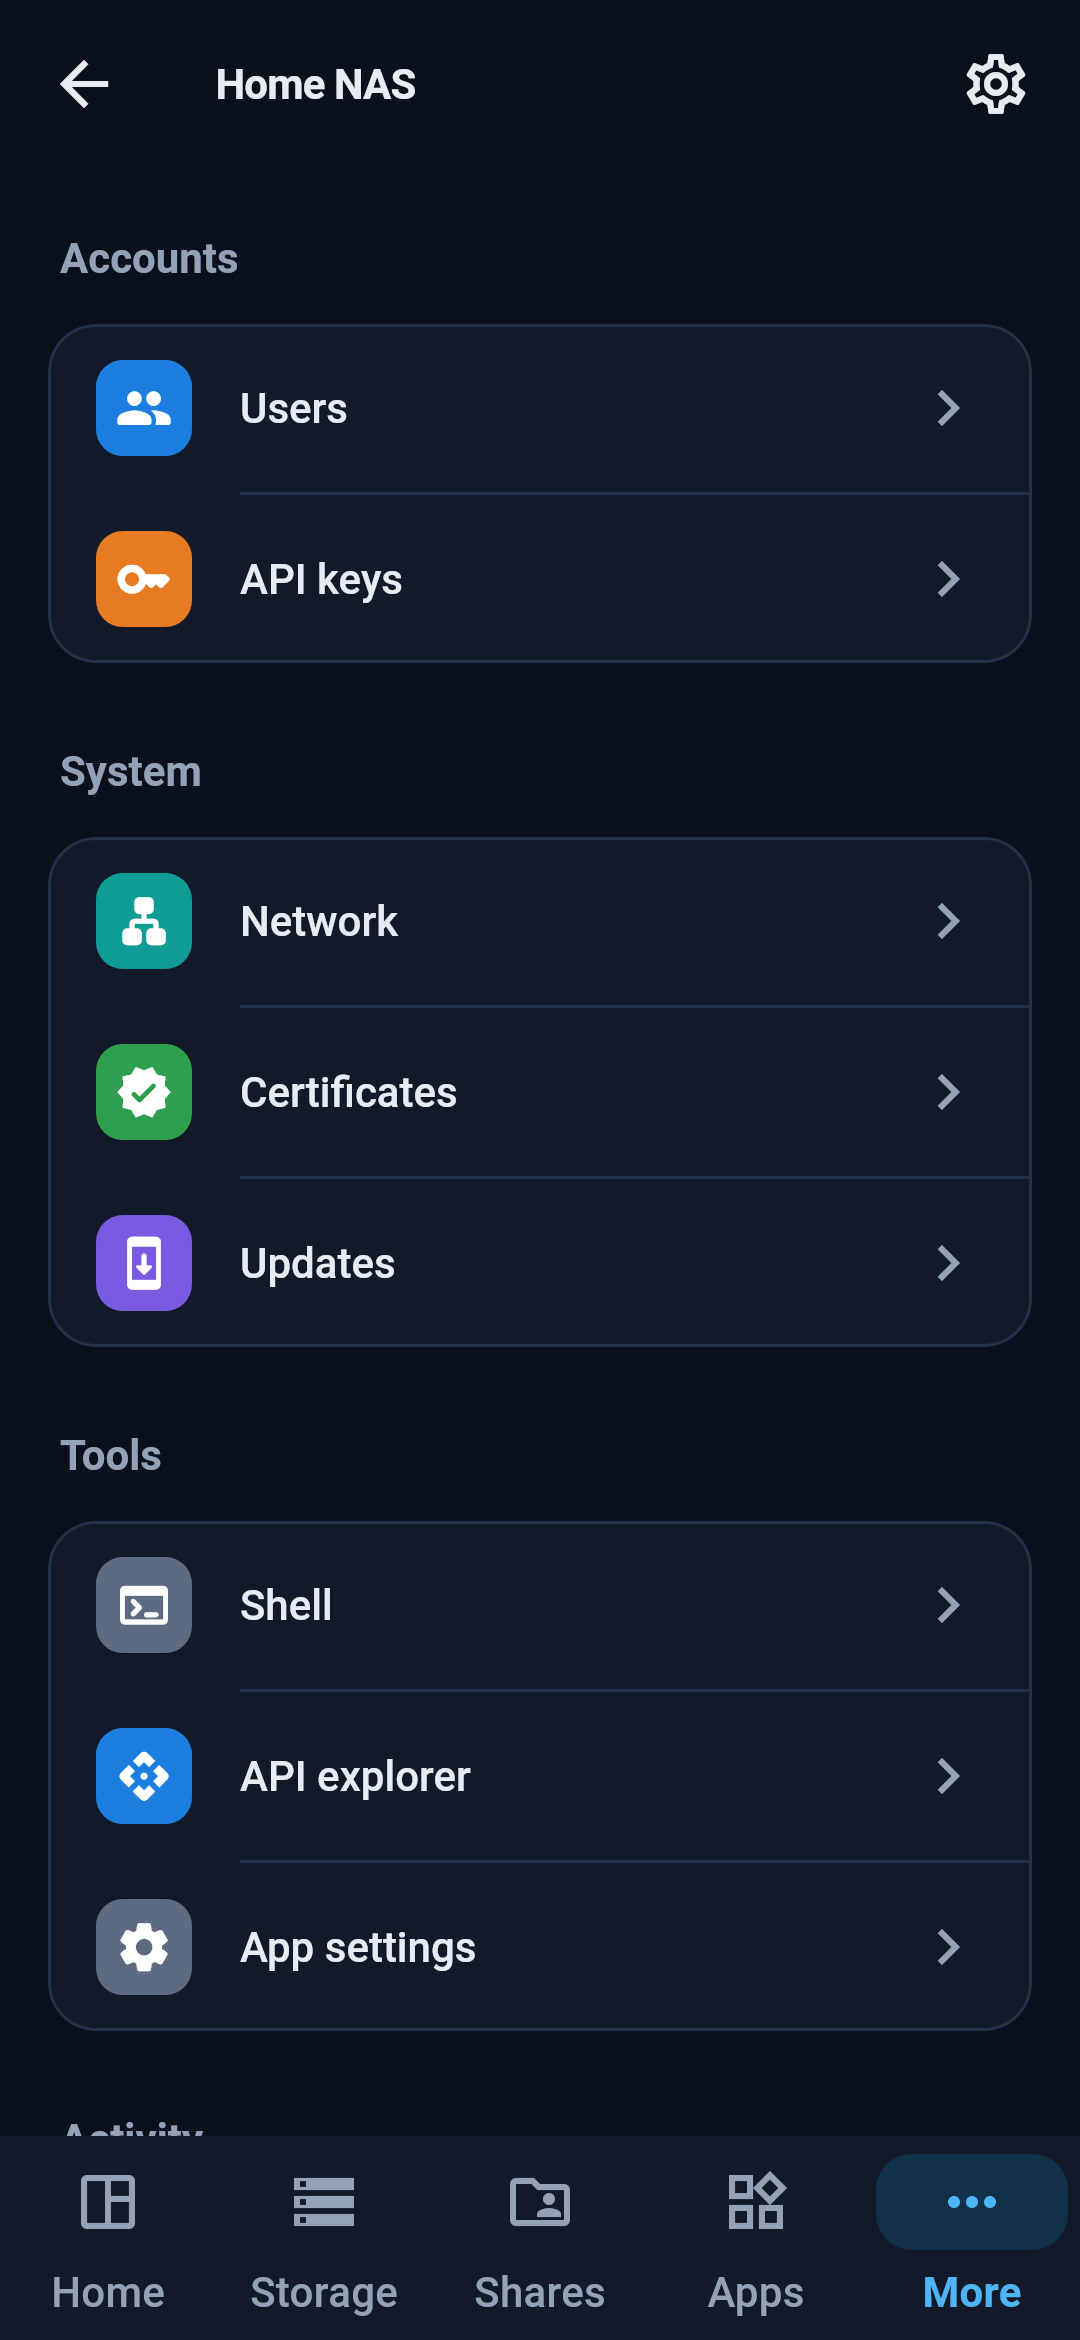
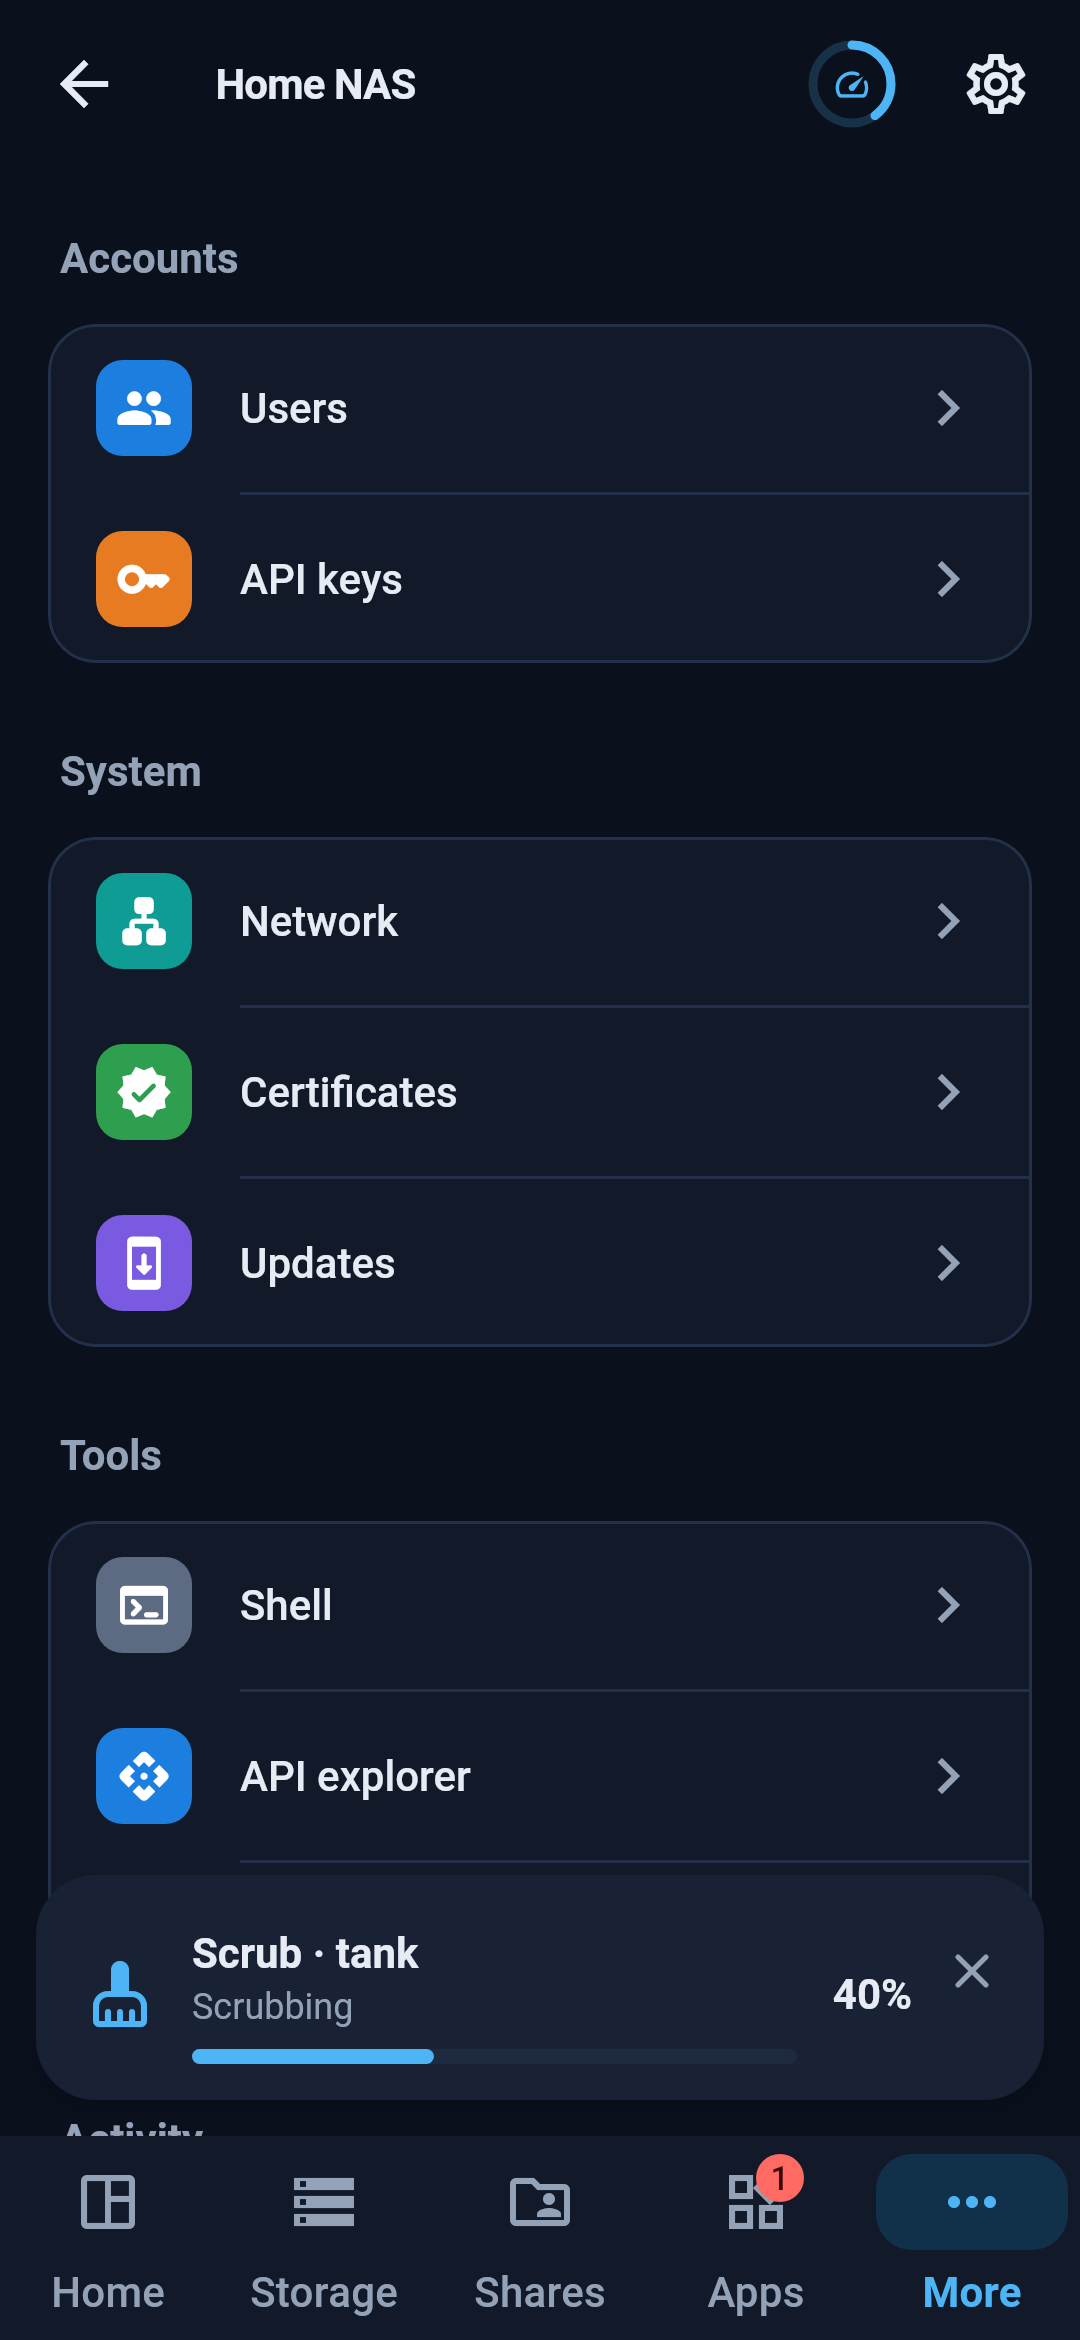
Use Apple's own glass for the iOS tab bar, switch, slider and segments (#73)
* Use Apple's own glass for the iOS tab bar, switch, slider and segments

On iOS 26 and later these are UIKit views (native_liquid_glass), so the
system draws the glass and it follows the user's Settings. Older iOS,
Android and tests keep the existing widgets.

Claude-Session: https://claude.ai/code/session_01S4Nmx9ECqHr2D7TY8ue5xQ

* Draw the native tab bar's icons as SF Symbols

The package rasterised Flutter icons for the UITabBar and they came out
several times too big on a phone.

Claude-Session: https://claude.ai/code/session_01S4Nmx9ECqHr2D7TY8ue5xQ

* Lower the native tab bar and lift the job card above it

Claude-Session: https://claude.ai/code/session_01S4Nmx9ECqHr2D7TY8ue5xQ

* Regenerate the README screenshots

Claude-Session: https://claude.ai/code/session_01S4Nmx9ECqHr2D7TY8ue5xQ

---------

diff --git a/lib/shared/glass.dart b/lib/shared/glass.dart
@@ -4,11 +4,12 @@ import 'package:flutter/cupertino.dart'
     show showCupertinoDialog, showCupertinoModalPopup;
 import 'package:flutter/material.dart';
 import 'package:liquid_glass_widgets/liquid_glass_widgets.dart' as lg;
+import 'package:native_liquid_glass/native_liquid_glass.dart' as nlg;
 
 import 'theme.dart';
 
-// The one place that knows about liquid_glass_widgets, so swapping it out (or
-// for Apple's own material later) touches this file only.
+// The one place that knows about liquid_glass_widgets and native_liquid_glass,
+// so swapping them out touches this file only.
 
 /// Height of the floating glass tab bar.
 const _barHeight = 64.0;
@@ -19,6 +20,20 @@ const _barGap = 12.0;
 /// Whether the screen gets iOS 26 style glass chrome: a floating glass tab
 /// bar and content scrolling under a blurred top edge.
 bool useGlassChrome(BuildContext context) => isCupertino(context);
+
+/// Whether the tab bar, switch, slider and segmented control are Apple's own
+/// UIKit views (iOS 26 and later, hosted as platform views) rather than the
+/// package's shader look-alikes. Only the system material follows what the
+/// user chose in Settings (Reduce Transparency, and the iOS 27 glass look).
+/// Never true in tests, which do not run on an iPhone.
+bool useNativeGlass(BuildContext context) =>
+    useGlassChrome(context) && nlg.NativeLiquidGlassUtils.supportsLiquidGlass;
+
+/// Fades native glass out under dialogs, sheets and other pop-up routes, which
+/// it would otherwise bleed through (a native view sits above Flutter's
+/// surface). Add it to the app's `navigatorObservers`.
+NavigatorObserver glassNavigatorObserver() =>
+    nlg.LiquidGlassNavigatorObserver();
 
 /// Space that floating chrome covers at the top and bottom of a tab, so its
 /// list can start below the top bar and scroll clear of the tab bar.
@@ -74,6 +89,38 @@ class GlassTabBar extends StatelessWidget {
   Widget build(BuildContext context) {
     final width = math.min(MediaQuery.sizeOf(context).width - 24, 440.0);
     final accent = Theme.of(context).colorScheme.primary;
+    if (useNativeGlass(context)) {
+      // A real UITabBar: iOS draws the glass, so it follows the system
+      // settings. Only the selected tab takes the accent colour.
+      return Align(
+        alignment: Alignment.bottomCenter,
+        child: SafeArea(
+          top: false,
+          // The native view reserves 20 points of overflow for its glow and
+          // sits that much higher than the shader bar, so it takes no gap of
+          // its own: it then rests about where the shader bar did.
+          child: Padding(
+            padding: EdgeInsets.zero,
+            child: nlg.LiquidGlassTabBar(
+              width: width,
+              height: _barHeight,
+              selectedItemColor: accent,
+              currentIndex: selectedIndex,
+              onTabSelected: onSelected,
+              items: [
+                for (final (i, (icon, selected, label)) in destinations.indexed)
+                  nlg.LiquidGlassTabItem(
+                    label: label,
+                    icon: _nativeIcon(icon, selected: false),
+                    selectedIcon: _nativeIcon(selected, selected: true),
+                    iosBadgeValue: (badges[i] ?? 0) > 0 ? '${badges[i]}' : null,
+                  ),
+              ],
+            ),
+          ),
+        ),
+      );
+    }
     // The glass itself stays plain; only the selected tab's icon and label
     // take the accent colour. A selected tab is drawn a second time on top of
     // the bar, 15% larger and heavier by default, and where that copy was
@@ -135,6 +182,28 @@ class GlassTabBar extends StatelessWidget {
       ),
     );
   }
+}
+
+/// The tab's icon as an SF Symbol, which UIKit draws at the right size. The
+/// package turns a Flutter icon into a picture, and on a phone that came out
+/// several times too big, so every tab icon needs an entry here (the Material
+/// icon is the fallback, wrong size or not).
+nlg.NativeLiquidGlassIcon _nativeIcon(IconData icon, {required bool selected}) {
+  final name = switch (icon) {
+    Icons.space_dashboard_outlined => 'square.grid.2x2',
+    Icons.space_dashboard_rounded => 'square.grid.2x2.fill',
+    Icons.storage_outlined => 'externaldrive',
+    Icons.storage_rounded => 'externaldrive.fill',
+    Icons.folder_shared_outlined => 'folder.badge.person.crop',
+    Icons.folder_shared_rounded => 'folder.fill.badge.person.crop',
+    Icons.widgets_outlined => 'square.stack.3d.up',
+    Icons.widgets_rounded => 'square.stack.3d.up.fill',
+    Icons.more_horiz_rounded => 'ellipsis',
+    _ => null,
+  };
+  return name == null
+      ? nlg.NativeLiquidGlassIcon.iconData(icon)
+      : nlg.NativeLiquidGlassIcon.sfSymbol(name);
 }
 
 Widget _badged(Widget icon, int count) =>
@@ -616,19 +685,26 @@ class GlassSwitchControl extends StatelessWidget {
   final ValueChanged<bool>? onChanged;
 
   @override
-  Widget build(BuildContext context) => Opacity(
-    opacity: onChanged == null ? 0.4 : 1,
-    child: IgnorePointer(
-      ignoring: onChanged == null,
-      child: lg.GlassSwitch(
-        value: value,
-        useOwnLayer: true,
-        // Haptics follow the app's own setting (see Haptics).
-        enableHaptics: false,
-        onChanged: onChanged ?? (_) {},
-      ),
-    ),
-  );
+  Widget build(BuildContext context) => useNativeGlass(context)
+      ? nlg.LiquidGlassToggle(
+          value: value,
+          enabled: onChanged != null,
+          height: 31,
+          onChanged: onChanged ?? (_) {},
+        )
+      : Opacity(
+          opacity: onChanged == null ? 0.4 : 1,
+          child: IgnorePointer(
+            ignoring: onChanged == null,
+            child: lg.GlassSwitch(
+              value: value,
+              useOwnLayer: true,
+              // Haptics follow the app's own setting (see Haptics).
+              enableHaptics: false,
+              onChanged: onChanged ?? (_) {},
+            ),
+          ),
+        );
 }
 
 /// An iOS 26 slider: the package's [lg.GlassSlider] on its own glass layer.
@@ -651,15 +727,25 @@ class GlassSliderControl extends StatelessWidget {
   final int? divisions;
 
   @override
-  Widget build(BuildContext context) => lg.GlassSlider(
-    value: value,
-    min: min,
-    max: max,
-    divisions: divisions,
-    useOwnLayer: true,
-    onChanged: onChanged,
-    onChangeEnd: onChangeEnd,
-  );
+  Widget build(BuildContext context) => useNativeGlass(context)
+      ? nlg.LiquidGlassSlider(
+          value: value.clamp(min, max),
+          min: min,
+          max: max,
+          step: divisions == null ? null : (max - min) / divisions!,
+          // The UISlider reports no end of drag, so [onChangeEnd] is not
+          // called here.
+          onChanged: onChanged,
+        )
+      : lg.GlassSlider(
+          value: value,
+          min: min,
+          max: max,
+          divisions: divisions,
+          useOwnLayer: true,
+          onChanged: onChanged,
+          onChangeEnd: onChangeEnd,
+        );
 }
 
 /// An iOS 26 segmented control: the package's [lg.GlassSegmentedControl].
@@ -679,22 +765,31 @@ class GlassSegments extends StatelessWidget {
   final ValueChanged<int> onSelected;
 
   @override
-  Widget build(BuildContext context) => lg.GlassSegmentedControl(
-    useOwnLayer: true,
-    // Tall enough for an icon above its label, and a capsule like the
-    // system's.
-    height: 58,
-    borderRadius: 29,
-    selectedIndex: selectedIndex,
-    onSegmentSelected: onSelected,
-    segments: [
-      for (final (i, label) in labels.indexed)
-        lg.GlassSegment(
-          label: label,
-          icon: icons == null ? null : Icon(icons![i], size: 18),
-        ),
-    ],
-  );
+  Widget build(BuildContext context) =>
+      // The UISegmentedControl has no icons, so those keep the package's.
+      useNativeGlass(context) && icons == null
+      ? nlg.LiquidGlassSegmentedControl(
+          labels: labels,
+          selectedIndex: selectedIndex,
+          height: 36,
+          onValueChanged: onSelected,
+        )
+      : lg.GlassSegmentedControl(
+          useOwnLayer: true,
+          // Tall enough for an icon above its label, and a capsule like the
+          // system's.
+          height: 58,
+          borderRadius: 29,
+          selectedIndex: selectedIndex,
+          onSegmentSelected: onSelected,
+          segments: [
+            for (final (i, label) in labels.indexed)
+              lg.GlassSegment(
+                label: label,
+                icon: icons == null ? null : Icon(icons![i], size: 18),
+              ),
+          ],
+        );
 }
 
 /// One entry of a [GlassPopupMenu].

diff --git a/lib/app.dart b/lib/app.dart
@@ -11,6 +11,7 @@ import 'features/lock/app_lock_gate.dart';
 import 'features/updates/update_prompt.dart';
 import 'features/widgets/home_widget_list_sync.dart';
 import 'l10n/generated/app_localizations.dart';
+import 'shared/glass.dart';
 import 'shared/theme.dart';
 
 class TrueNasMobileApp extends ConsumerWidget {
@@ -37,6 +38,7 @@ class TrueNasMobileApp extends ConsumerWidget {
         ThemeChoice.light => ThemeMode.light,
         ThemeChoice.dark => ThemeMode.dark,
       },
+      navigatorObservers: [glassNavigatorObserver()],
       builder: (context, child) => AppLockGate(child: child!),
       home: const UpdateAutoCheck(
         child: HomeWidgetListSync(

diff --git a/lib/features/server/server_screen.dart b/lib/features/server/server_screen.dart
@@ -448,7 +448,9 @@ class _ServerScreenState extends ConsumerState<ServerScreen>
               Positioned(
                 left: 12,
                 right: 12,
-                bottom: insets.bottom - 4,
+                // The native tab bar stands a little higher than the shader
+                // one, so the job card sits higher with it.
+                bottom: insets.bottom + (useNativeGlass(context) ? 4 : -4),
                 child: _jobs == null
                     ? const SizedBox.shrink()
                     : JobProgressBanner(

diff --git a/AGENTS.md b/AGENTS.md
@@ -107,6 +107,20 @@ README covers what the app does; this file covers how to work on it.
   `Scaffold`/`AppBar` with our own `GlassTopEdge` and `ChromeInsets`, instead
   of `GlassScaffold`/`GlassAppBar`), buttons, text fields and snackbars (a
   `GlassToast` needs a live context and would sit over the tab bar).
+- Native glass (`useNativeGlass` in `glass.dart`, package `native_liquid_glass`):
+  on iOS 26 and later the tab bar, `AppSwitch`, `AppSlider` and `AppSegments`
+  (without icons) are Apple's own UIKit views (`UITabBar`, `UISwitch`,
+  `UISlider`, `UISegmentedControl`) hosted as platform views, so the system
+  draws the glass and it follows what the user set in Settings (Reduce
+  Transparency, the iOS 27 glass look), which the shader look-alikes cannot
+  read. Older iOS, Android and tests keep the `liquid_glass_widgets` / Material
+  versions. Costs: a native view sits above Flutter's surface, so
+  `glassNavigatorObserver()` (in `MaterialApp.navigatorObservers`) hides it
+  under pushed routes and dialogs; the UISlider reports no end of drag
+  (`onChangeEnd` is not called); the switch, slider and segments follow the
+  device's light or dark appearance, only the tab bar follows the app's theme;
+  tests cannot run them (no iOS), so check them on a phone. Dialogs, sheets,
+  menus and glass panels stay on `liquid_glass_widgets`.
 - Haptics go through `lib/shared/haptics.dart` (switched off by
   `Haptics.enabled`, which the settings notifier keeps in step). Use
   `AppRefreshIndicator`, `AppSwitch` and `AppSwitchTile` (in `ui.dart`)
